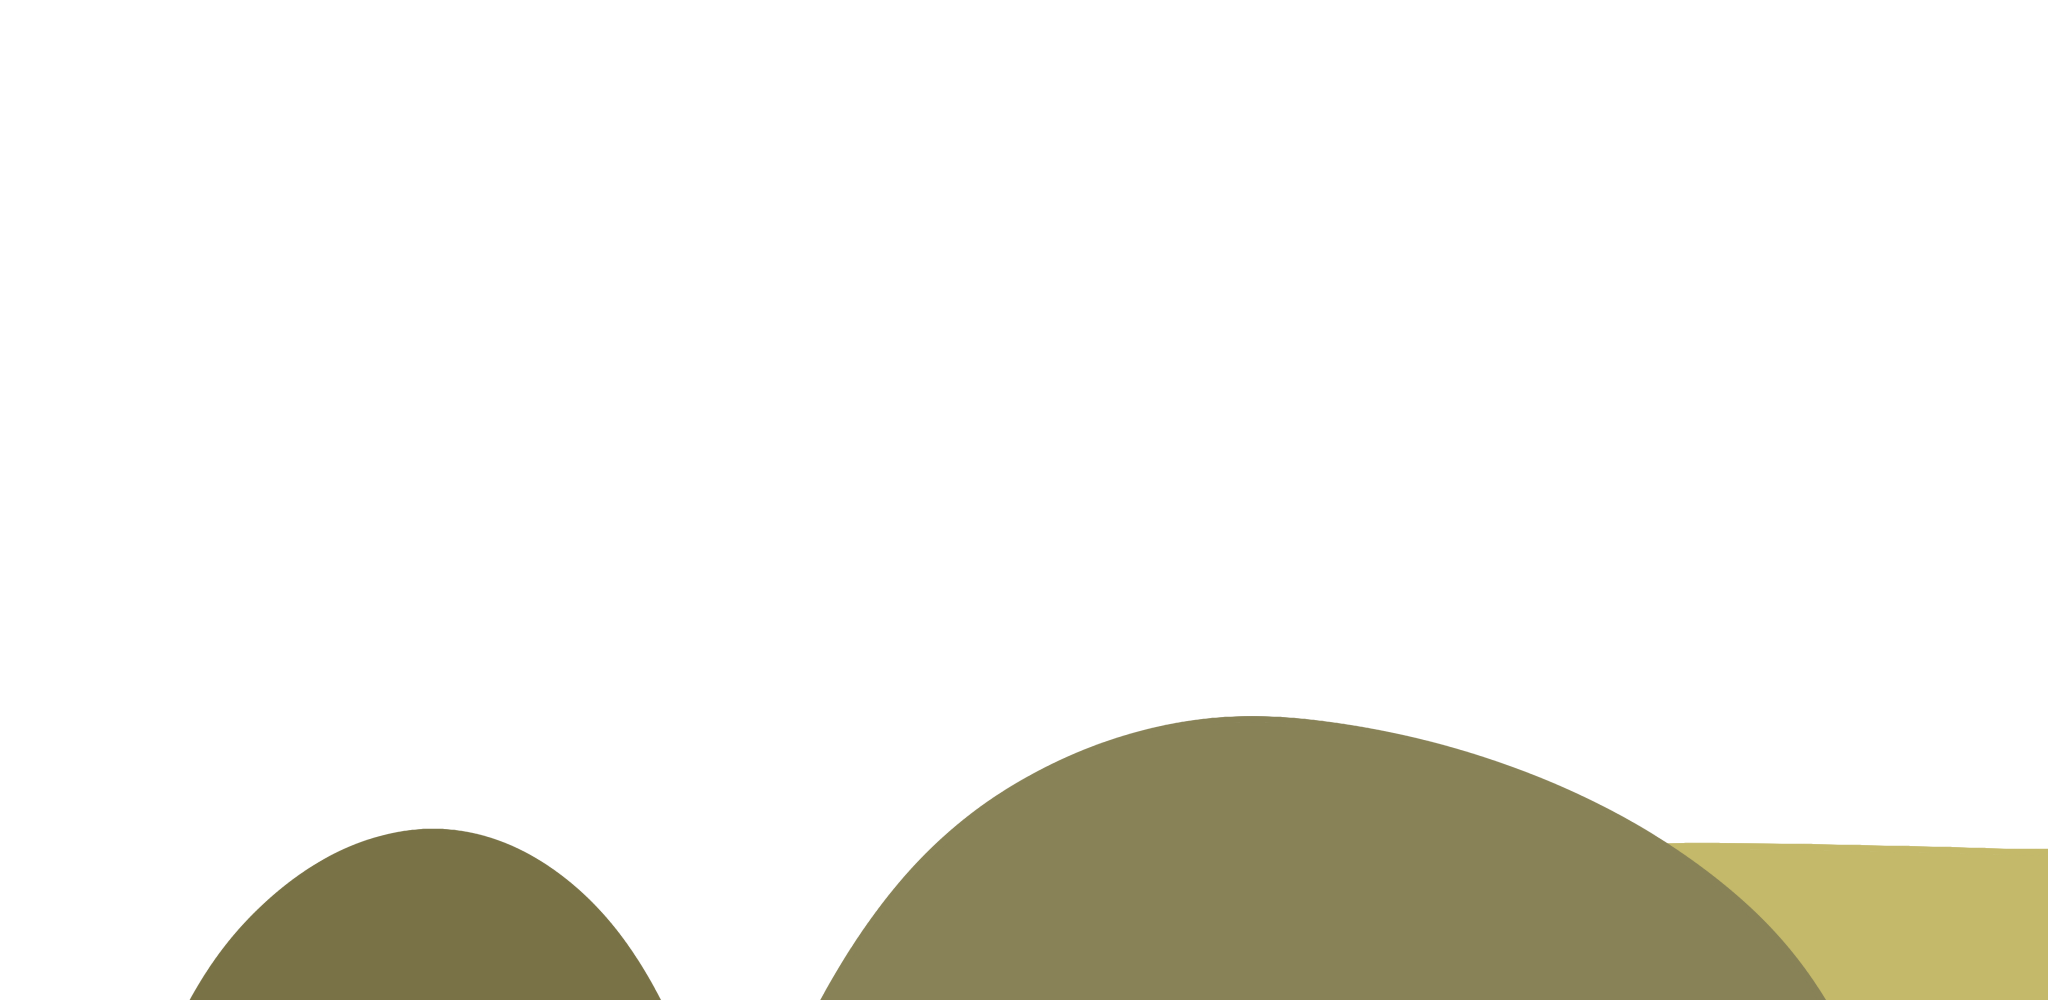
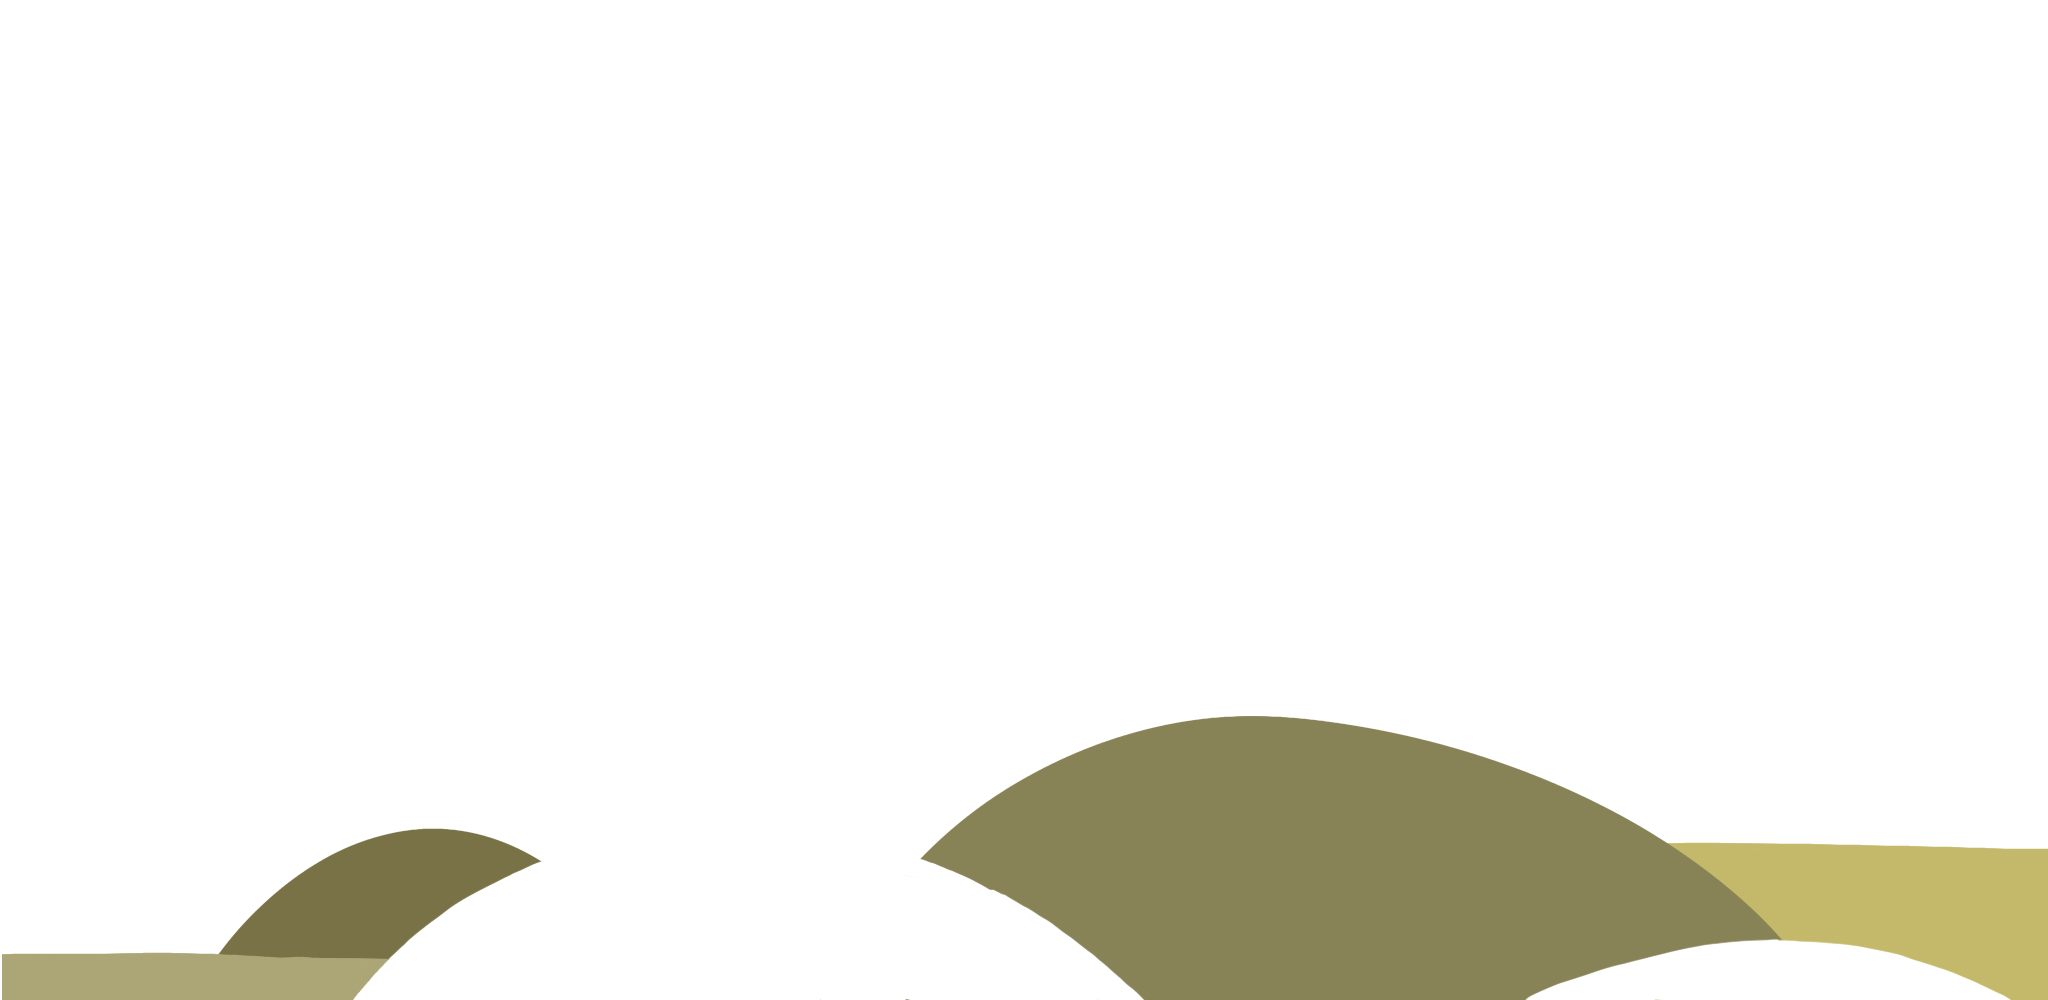
completed animations

Changed region(s): [[0.0, 0.868, 0.3438, 1.0], [0.375, 0.868, 0.5625, 1.0], [0.75, 0.93, 1.0, 1.0]]

diff --git a/evergreen/src/App.js b/evergreen/src/App.js
@@ -71,11 +71,11 @@ class App extends React.Component {
     if(this.state.animation_stage_cur > this.state.animation_stage) {
       setTimeout(function () {
           self.decrementAnimationStage();
-        }, 800)
+        }, 400)
     } else if(this.state.animation_stage_cur < this.state.animation_stage) {
       setTimeout(function () {
           self.incrementAnimationStage();
-        }, 800)
+        }, 600)
     }
   }
 
@@ -119,7 +119,11 @@ class App extends React.Component {
   }
 
   handleClick() {
-    this.setState({ animation_stage: this.state.animation_stage + 1})
+    this.setState({ animation_stage: this.state.animation_stage + 15})
+    var self = this
+        setTimeout(function () {
+            self.respondToStage();
+          }, 400)
     // const sceneFadeOut = document.getElementById('scene');
     // sceneFadeOut.classList.toggle('scene-leave');
     // const sceneFadeIn = document.getElementById('next-scene');
@@ -166,20 +170,108 @@ class App extends React.Component {
           </Grid>
         </div>
         <div className="scenediv">
+            {/* Tree Animations */}
             <img
-              src={require("../src/phase2tree.png")}
+              src={require("../src/treeBack2.png")}
+              id="art"
+              className={this.state.animation_stage_cur <= 1 ? 'slideIn' : 'slideOut'}
+              alt="stop warning me"
+              onClick={() => this.handleClick()}
+            />
+            <img
+              src={require("../src/treeBack4.png")}
+              id="art"
+              className={this.state.animation_stage_cur <= 3 ? 'slideIn' : 'slideOut'}
+              alt="stop warning me"
+              onClick={() => this.handleClick()}
+            />
+            <img
+              src={require("../src/treeBack6.png")}
+              id="art"
+              className={this.state.animation_stage_cur <= 5 ? 'slideIn' : 'slideOut'}
+              alt="stop warning me"
+              onClick={() => this.handleClick()}
+            />
+            <img
+              src={require("../src/treeBack7.png")}
+              id="art"
+              className={this.state.animation_stage_cur <= 6 ? 'slideIn' : 'slideOut'}
+              alt="stop warning me"
+              onClick={() => this.handleClick()}
+            />
+            <img
+              src={require("../src/backGood.png")}
+              id="art-scene"
+              className= "fadeIn"
+              alt="stop warning me"
+              onClick={() => this.handleClick()}
+            />
+            <img
+              src={require("../src/treeFront3.png")}
               id="art"
               className={this.state.animation_stage_cur <= 2 ? 'slideIn' : 'slideOut'}
               alt="stop warning me"
               onClick={() => this.handleClick()}
             />
             <img
-              src={require("../src/phase2.png")}
+              src={require("../src/treeFront5.png")}
               id="art"
-              className="slideIn"
+              className={this.state.animation_stage_cur <= 4 ? 'slideIn' : 'slideOut'}
               alt="stop warning me"
               onClick={() => this.handleClick()}
             />
+            <img
+              src={require("../src/frontGood.png")}
+              id="art-scene"
+              className= "fadeIn"
+              alt="stop warning me"
+              onClick={() => this.handleClick()}
+            />
+
+            {/* Factory Animations */}
+            <img
+              src={require("../src/factoryBack10.png")}
+              id="art-factory"
+              className={this.state.animation_stage_cur <= 9 ? 'slideOut' : 'slideIn'}
+              alt="stop warning me"
+              onClick={() => this.handleClick()}
+            />
+            <img
+              src={require("../src/factoryBack11.png")}
+              id="art-factory"
+              className={this.state.animation_stage_cur <= 10 ? 'slideOut' : 'slideIn'}
+              alt="stop warning me"
+              onClick={() => this.handleClick()}
+            />
+            <img
+              src={require("../src/backBad.png")}
+              id="art-factory-scene"
+              className={this.state.animation_stage_cur >= 7 ? 'fadeIn' : 'fadeOut'}
+              alt="stop warning me"
+              onClick={() => this.handleClick()}
+            />
+            <img
+              src={require("../src/factoryFront8.png")}
+              id="art-factory"
+              className={this.state.animation_stage_cur <= 7 ? 'slideOut' : 'slideIn'}
+              alt="stop warning me"
+              onClick={() => this.handleClick()}
+            />
+            <img
+              src={require("../src/factoryFront9.png")}
+              id="art-factory"
+              className={this.state.animation_stage_cur <= 8 ? 'slideOut' : 'slideIn'}
+              alt="stop warning me"
+              onClick={() => this.handleClick()}
+            />
+            <img
+              src={require("../src/frontBad.png")}
+              id="art-factory-scene"
+              className={this.state.animation_stage_cur >= 7 ? 'fadeIn' : 'fadeOut'}
+              alt="stop warning me"
+              onClick={() => this.handleClick()}
+            />
+
         </div>
       </div>
     );

diff --git a/evergreen/src/App.css b/evergreen/src/App.css
@@ -1,7 +1,12 @@
+html, body {
+  overflow: hidden;
+}
+
 .App {
   text-align: center;
   background-color: #c7e7f3;
   bottom: 0;
+  overflow: hidden;
 }
 
 .header {
@@ -77,7 +82,7 @@
   z-index: 0;
   /* pointer-events: none; */
   opacity: 1;
-  transform: translateY(200px);
+  transform: translateY(300px);
   transition: transform 800ms ease-in;
 }
 
@@ -86,5 +91,63 @@
 }
 
 #art.slideOut {
-  transform: translateY(200px);
+  transform: translateY(300px);
+}
+
+#art-factory {
+  width: 100%;
+  position: absolute;
+  bottom: -450px;
+  left: 0px;
+  z-index: 0;
+  /* pointer-events: none; */
+  opacity: 1;
+  transform: translateY(0);
+  transition: transform 800ms ease-in;
+}
+
+#art-factory.slideIn {
+  transform: translateY(-450px);
+}
+
+#art-factory.slideOut {
+  transform: translateY(0);
+}
+
+#art-scene {
+  width: 100%;
+  position: absolute;
+  bottom: 0px;
+  left: 0px;
+  z-index: 0;
+  /* pointer-events: none; */
+  opacity: 1;
+  transition: opacity 3s;
+}
+
+#art-scene.fadeIn {
+  opacity: 1;
+}
+
+#art-scene.fadeOut {
+  opacity: 0;
+}
+
+#art-factory-scene {
+  width: 100%;
+  position: absolute;
+  bottom: 0px;
+  left: 0px;
+  z-index: 0;
+  /* pointer-events: none; */
+  opacity: 0;
+  transition: opacity 3s;
+}
+
+#art-factory-scene.fadeIn {
+  opacity: 1;
+}
+
+#art-factory-scene.fadeOut {
+  opacity: 0;
 }
